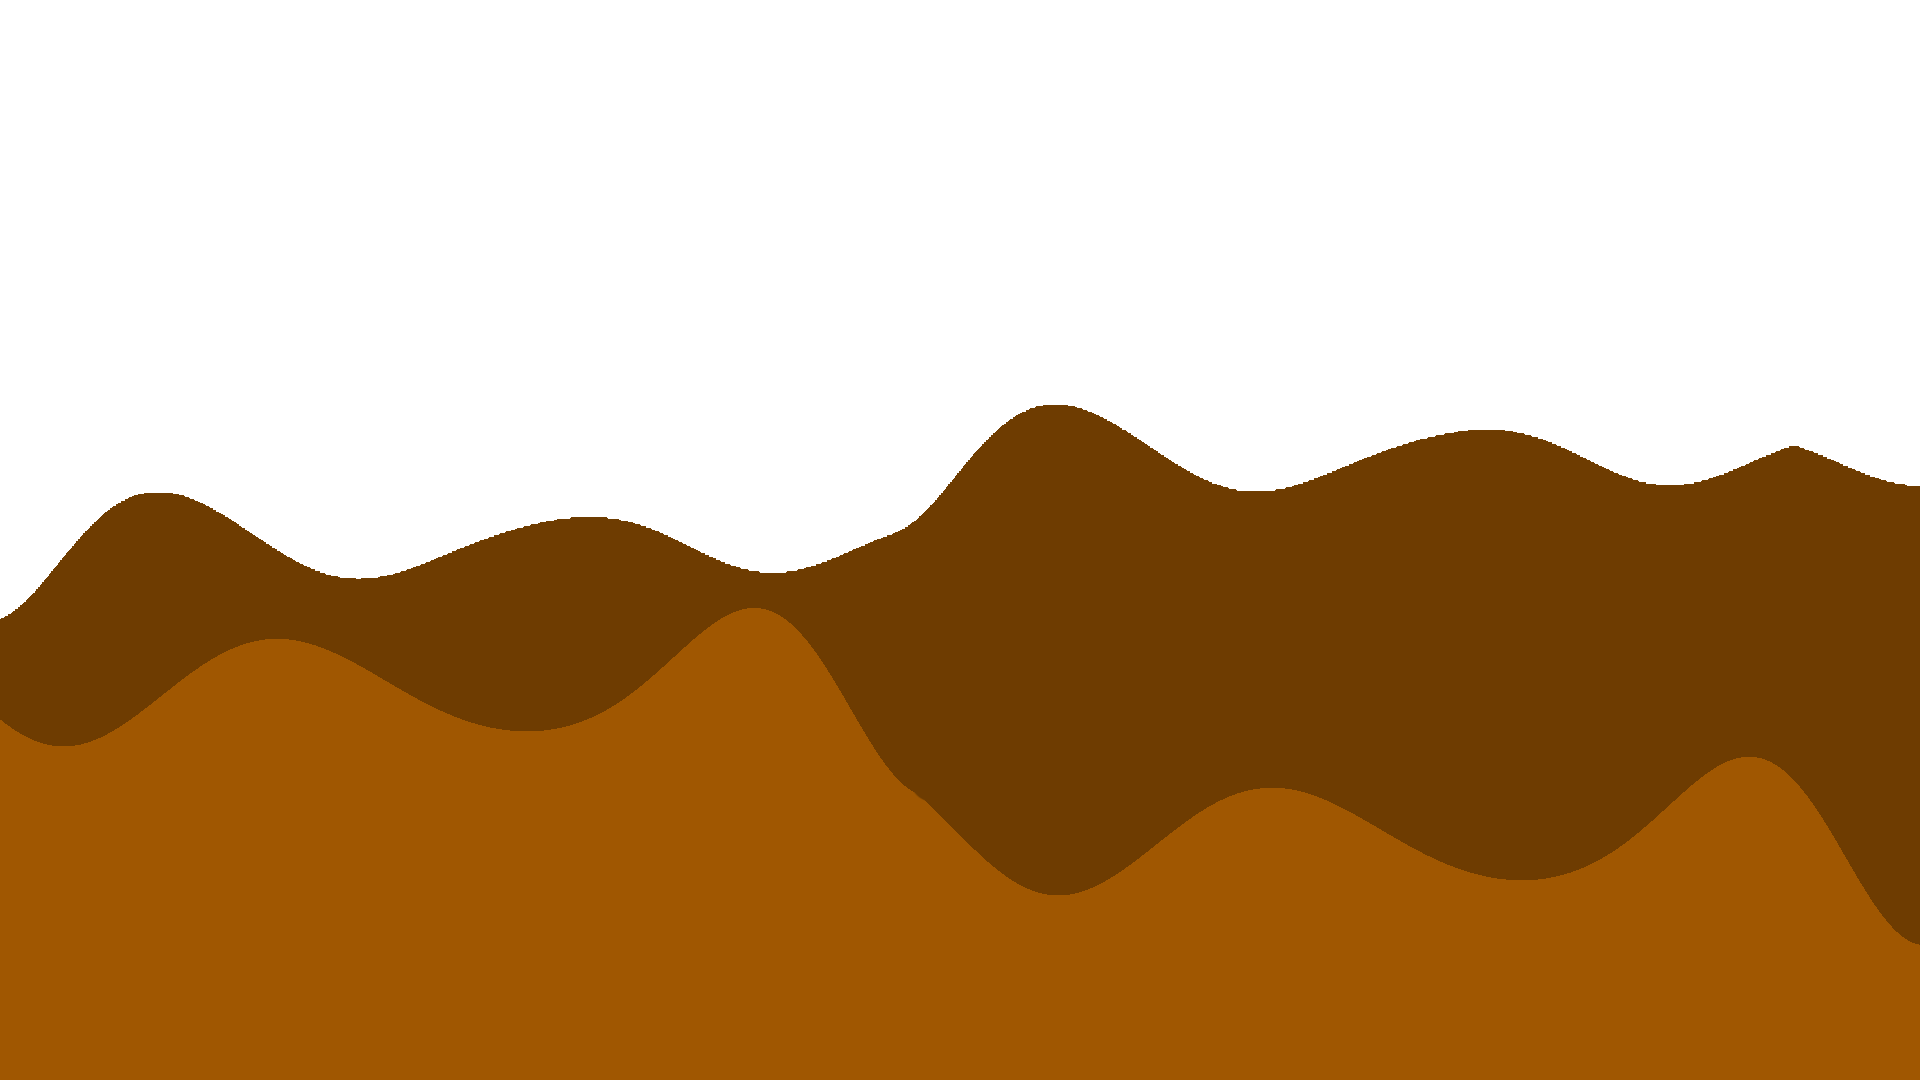
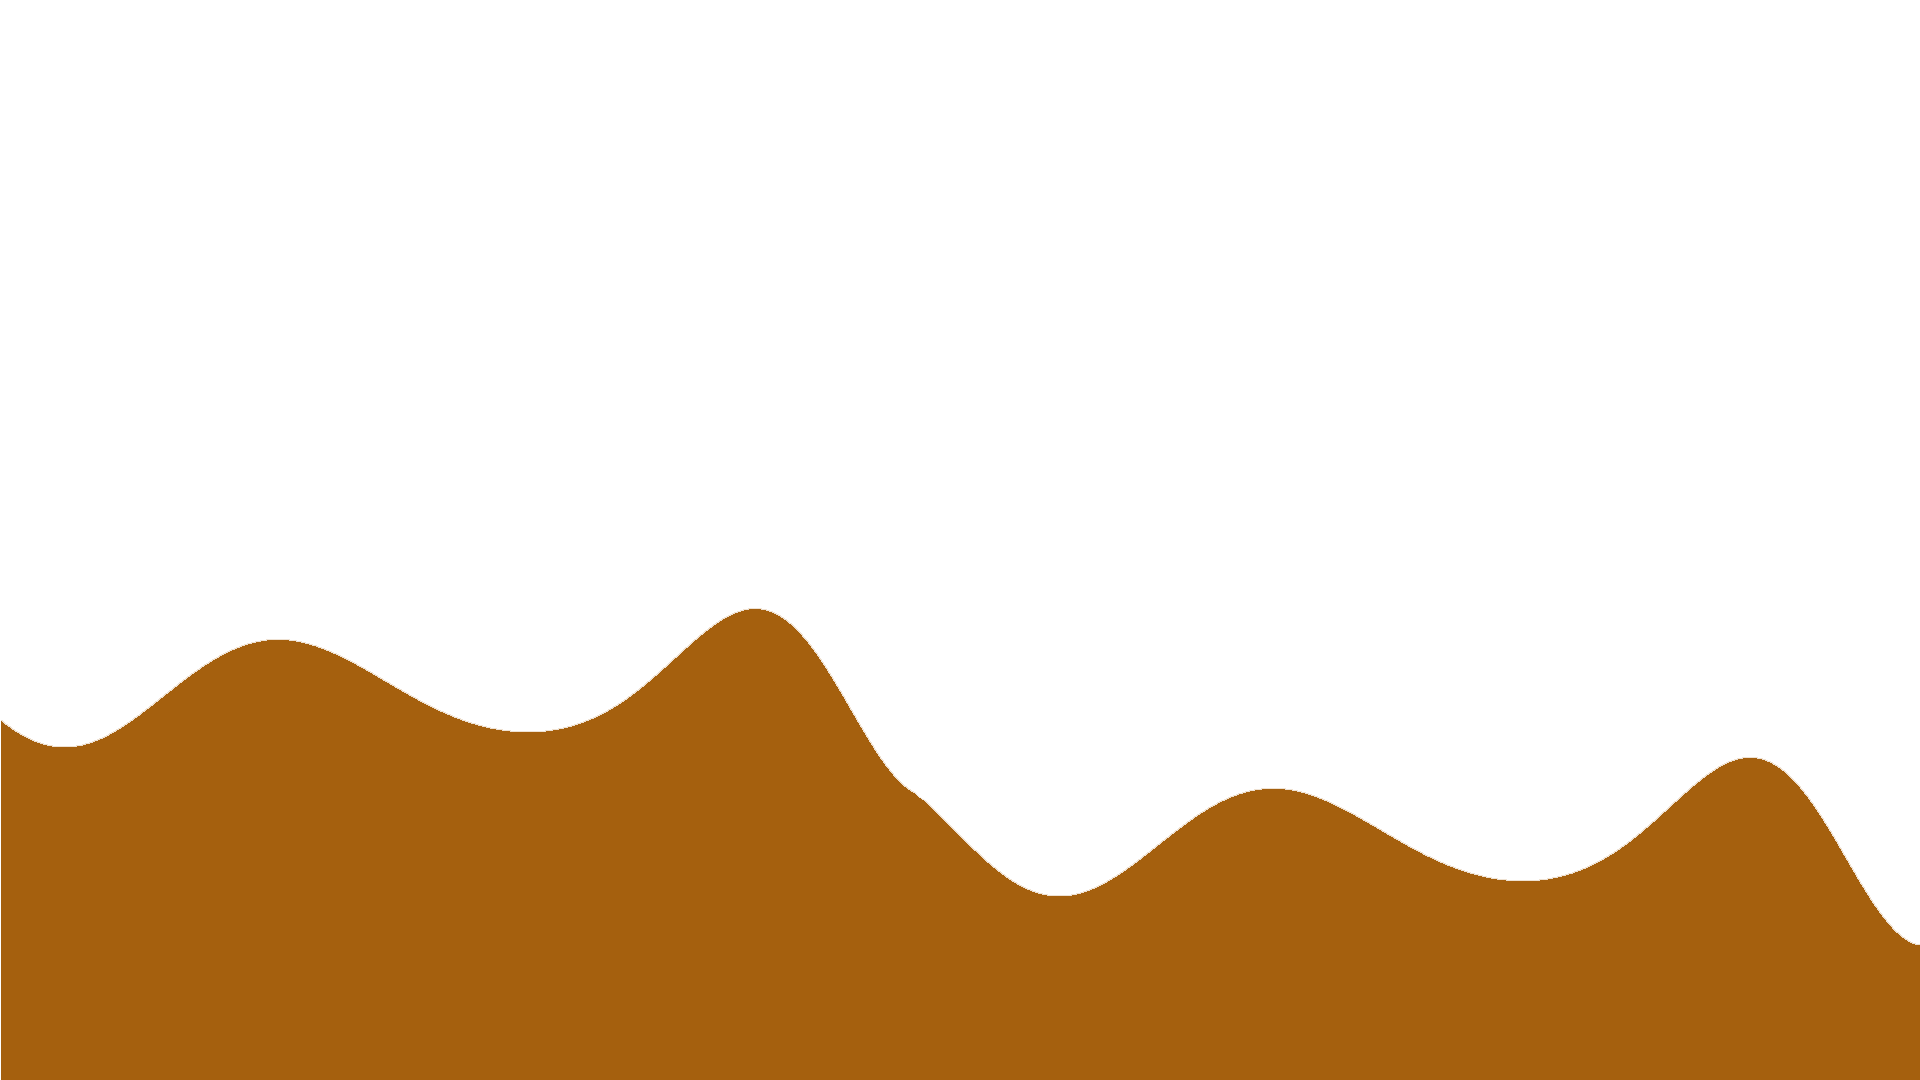
Added Parallax Scrolling and Fixed iOS performance for Course 1 Hole 1

Changed region(s): [[0.0, 0.3667, 1.0, 0.8861]]

diff --git a/States/Levels/Grass_Land/Level1.js b/States/Levels/Grass_Land/Level1.js
@@ -68,16 +68,20 @@ level1.prototype = {
         this.game.physics.startSystem(Phaser.Physics.P2JS);
         this.game.physics.p2.gravity.y = 1400;
 
-        Clouds = this.game.add.tileSprite(0, -1000, 5000, 2440, "Clouds"); //Values are doubled so that scale is still correct
-        Clouds.scale.setTo(0.67);
-        Hills = this.game.add.sprite(0,-200,"Hills");
+        Clouds = this.game.add.sprite(0, -500, "Clouds"); //Values are doubled so that scale is still correct
+        Clouds.scale.setTo(1);
+        Clouds2 = this.game.add.sprite(-2500, -500, "Clouds"); //Values are doubled so that scale is still correct
+        Clouds2.scale.setTo(1);
+
+        Hills = this.game.add.sprite(0,-200,"Hills1");
         Hills.scale.setTo(1.67,0.75);
+        Hills2 = this.game.add.sprite(0,-200,"Hills");
+        Hills2.scale.setTo(1.67,0.75);
 
         Player = this.game.add.sprite(100, 360, "Shot");
         Player.animations.add("Swing");
         Player.anchor.setTo(0.5, 0.5);
 
-        //TODO fix ball size
         Ball = this.game.add.sprite(Player.x, 365, "Ball");
         Ball.anchor.setTo(0.5, 0.5);
         this.game.physics.p2.enable(Ball);
@@ -182,9 +186,15 @@ level1.prototype = {
      * Handles game logic, physics and positions
      */
     update: function(){
-        Clouds.tilePosition.x += 1;
+        this.moveBackground(Clouds);
+        this.moveBackground(Clouds2);
         CameraCenterX = this.game.camera.x + this.game.camera.width/2;
         CameraCenterY = this.game.camera.y + this.game.camera.height/2;
+
+        Hills.x = this.game.camera.x * 0.4;
+        Hills.y = (this.game.camera.y * 0.4) - 150;
+        Hills2.x = this.game.camera.x * 0.2;
+        Hills2.y = (this.game.camera.y * 0.2) - 150;
 
         if (this.game.input.keyboard.isDown(Phaser.Keyboard.SHIFT)){
             if (this.game.input.keyboard.isDown(Phaser.Keyboard.SPACEBAR)) {
@@ -302,6 +312,16 @@ level1.prototype = {
         //if (Ball != undefined) this.game.debug.body(Ball);
         //this.game.debug.inputInfo(32, 32);
         //if (Ball != undefined) console.log(Ball.body.velocity.x, Ball.body.velocity.y);
+    },
+
+    moveBackground: function(background){
+        if (background.x > 2500){
+            background.x = -2498;
+            background.x += 1;
+        }
+        else{
+            background.x +=1;
+        }
     },
 
     /**

diff --git a/States/mainmenu.js b/States/mainmenu.js
@@ -98,8 +98,10 @@ mainMenu.prototype = {
         //Load Background and Logo
         Clouds = this.game.add.tileSprite(0,0, 1920, 1080, "Clouds");
         Clouds.scale.setTo(0.67);
-        var Hills = this.game.add.sprite(0,0,"Hills");
+        var Hills = this.game.add.sprite(0,0,"Hills1");
         Hills.scale.setTo(0.67);
+        var Hills2 = this.game.add.sprite(0,0,"Hills");
+        Hills2.scale.setTo(0.67);
         Logo = this.game.add.sprite(this.game.world.width/2, this.game.world.height/5, "Logo");
         Logo.anchor.setTo(0.5, 0.5);
         //Logo.scale.set(0.34);

diff --git a/States/preload.js b/States/preload.js
@@ -20,6 +20,7 @@ preload.prototype = {
         this.game.load.image("Logo", "Graphics/Logo-Resized.png");
         this.game.load.image("Clouds", "Graphics/Background/Background-Clouds.png");
         this.game.load.image("Hills", "Graphics/Background/Background-Hills4.png");
+        this.game.load.image("Hills1", "Graphics/Background/Background-Hills.png");
 
         this.game.load.spritesheet("Button", "Graphics/Buttons/Button.png", 400, 150);
         this.game.load.spritesheet("SoundOn", "Graphics/Buttons/Sound-On-Button.png", 150, 150);
